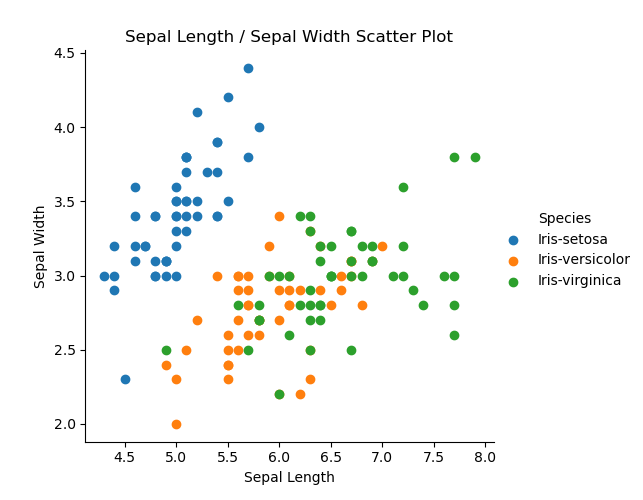
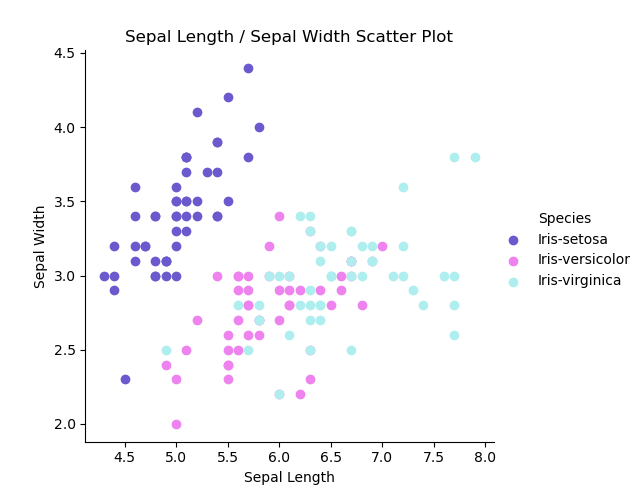
Plot Colours

diff --git a/analysis.py b/analysis.py
@@ -60,7 +60,7 @@ def dataSummary():
 def histograms():
 
     ax = plt.axes()
-    plt.hist(df["Sepal Length"], color = "firebrick")
+    plt.hist(df["Sepal Length"], color = "MediumPurple")
     plt.title("Sepal Length Histogram")
     plt.xlabel("Sepal Length")
     plt.grid(linestyle = "dashed", )
@@ -70,7 +70,7 @@ def histograms():
     
 
     ax = plt.axes()
-    plt.hist(df["Sepal Width"], color = "royalblue")
+    plt.hist(df["Sepal Width"], color = "slateblue")
     plt.title("Sepal Width Histogram")
     plt.xlabel("Sepal Width")
     plt.grid(linestyle = "dashed", )
@@ -79,7 +79,7 @@ def histograms():
     plt.show()
 
     ax = plt.axes()
-    plt.hist(df["Petal Length"], color = "forestgreen")
+    plt.hist(df["Petal Length"], color = "Violet")
     plt.title("Petal Length Histogram")
     plt.xlabel("Petal Length")
     plt.grid(linestyle = "dashed", )
@@ -89,7 +89,7 @@ def histograms():
     
 
     ax = plt.axes()
-    plt.hist(df["Petal Width"], color = "violet")
+    plt.hist(df["Petal Width"], color = "Indigo")
     plt.title("Petal Width Histogram")
     plt.xlabel("Petal Width")
     plt.grid(linestyle = "dashed", )
@@ -102,27 +102,27 @@ def histograms():
 #Scatterplots
 def scatterPlots():
     
-    sns.FacetGrid(df,hue="Species", height=5).map(plt.scatter, "Sepal Length", "Sepal Width" ).add_legend()
+    sns.FacetGrid(df,hue="Species", palette = ['SlateBlue', 'Violet',  'PaleTurquoise'], height=5).map(plt.scatter, "Sepal Length", "Sepal Width" ).add_legend()
     plt.title("Sepal Length / Sepal Width Scatter Plot")
     plt.subplots_adjust(top=0.9)
     plt.savefig("./plots/SLSWscatterPlot.png")
 
-    sns.FacetGrid(df,hue="Species", height=5).map(plt.scatter, "Petal Length", "Petal Width" ).add_legend() 
+    sns.FacetGrid(df,hue="Species", palette = ['SlateBlue', 'Violet',  'PaleTurquoise'], height=5).map(plt.scatter, "Petal Length", "Petal Width" ).add_legend() 
     plt.title("Petal Length / Petal Width Scatter Plot")     
     plt.subplots_adjust(top=0.9) 
     plt.savefig("./plots/PLPWscatterPlot.png")
 
-    sns.FacetGrid(df,hue="Species", height=5).map(plt.scatter, "Sepal Length", "Petal Length").add_legend()
+    sns.FacetGrid(df,hue="Species", palette = ['SlateBlue', 'Violet',  'PaleTurquoise'], height=5).map(plt.scatter, "Sepal Length", "Petal Length").add_legend()
     plt.title("Sepal Length / Petal Length Scatter Plot")
     plt.subplots_adjust(top=0.9)
     plt.savefig("./plots/SLPLscatterPlot.png")  
   
-    sns.FacetGrid(df,hue="Species", height=5).map(plt.scatter, "Sepal Width" , "Petal Width" ).add_legend()
+    sns.FacetGrid(df,hue="Species", palette = ['SlateBlue', 'Violet',  'PaleTurquoise'], height=5).map(plt.scatter, "Sepal Width" , "Petal Width" ).add_legend()
     plt.title("Sepal Width / Petal Width Scatter Plot")
     plt.subplots_adjust(top=0.9)
     plt.savefig("./plots/SWPWscatterPlot.png")
 
-    sns.pairplot(df,hue="Species",height=3)
+    sns.pairplot(df,hue="Species", palette = ['SlateBlue', 'Violet',  'PaleTurquoise'], height=3)
     plt.savefig("./plots/scatterPlot.png")
 
     plt.show()
@@ -150,20 +150,20 @@ def stack():
 ##########################################################################
 def boxPlots():
     boxPlot, axes = plt.subplots(1,4, figsize=(16,8))
-    sns.boxplot(x="Species", y="Sepal Length", hue="Species", data=df, palette="bright", ax=axes[0], dodge=False)    
-    sns.boxplot(x="Species", y="Sepal Width" , hue="Species", data=df, palette="bright", ax=axes[1], dodge=False)
-    sns.boxplot(x="Species", y="Petal Length", hue="Species", data=df, palette="bright", ax=axes[2], dodge=False)
-    sns.boxplot(x="Species", y="Petal Width" , hue="Species", data=df, palette="bright", ax=axes[3], dodge=False)
+    sns.boxplot(x="Species", y="Sepal Length", hue="Species", data=df, palette="BuPu_r", ax=axes[0], dodge=False)    
+    sns.boxplot(x="Species", y="Sepal Width" , hue="Species", data=df, palette="BuPu_r", ax=axes[1], dodge=False)
+    sns.boxplot(x="Species", y="Petal Length", hue="Species", data=df, palette="BuPu_r", ax=axes[2], dodge=False)
+    sns.boxplot(x="Species", y="Petal Width" , hue="Species", data=df, palette="BuPu_r", ax=axes[3], dodge=False)
     plt.suptitle("Box Plots")
     plt.savefig("./plots/boxPlots.png")
     plt.show()
 
 def violinPlots():
     violinplot, axes = plt.subplots(2,2, figsize=(10,10), sharex=False)
-    sns.violinplot(x="Species", y="Sepal Length", hue="Species", data=df, palette="bright", ax=axes[0,0], dodge=False)
-    sns.violinplot(x="Species", y="Sepal Width" , hue="Species", data=df, palette="bright", ax=axes[0,1], dodge=False)
-    sns.violinplot(x="Species", y="Petal Length", hue="Species", data=df, palette="bright", ax=axes[1,0], dodge=False)
-    sns.violinplot(x="Species", y="Petal Width" , hue="Species", data=df, palette="bright", ax=axes[1,1], dodge=False)
+    sns.violinplot(x="Species", y="Sepal Length", hue="Species", data=df, palette="BuPu_r", ax=axes[0,0], dodge=False)
+    sns.violinplot(x="Species", y="Sepal Width" , hue="Species", data=df, palette="BuPu_r", ax=axes[0,1], dodge=False)
+    sns.violinplot(x="Species", y="Petal Length", hue="Species", data=df, palette="BuPu_r", ax=axes[1,0], dodge=False)
+    sns.violinplot(x="Species", y="Petal Width" , hue="Species", data=df, palette="BuPu_r", ax=axes[1,1], dodge=False)
     plt.suptitle("Violin Plots")
     plt.savefig("./plots/violinPlots.png")
     plt.show()
